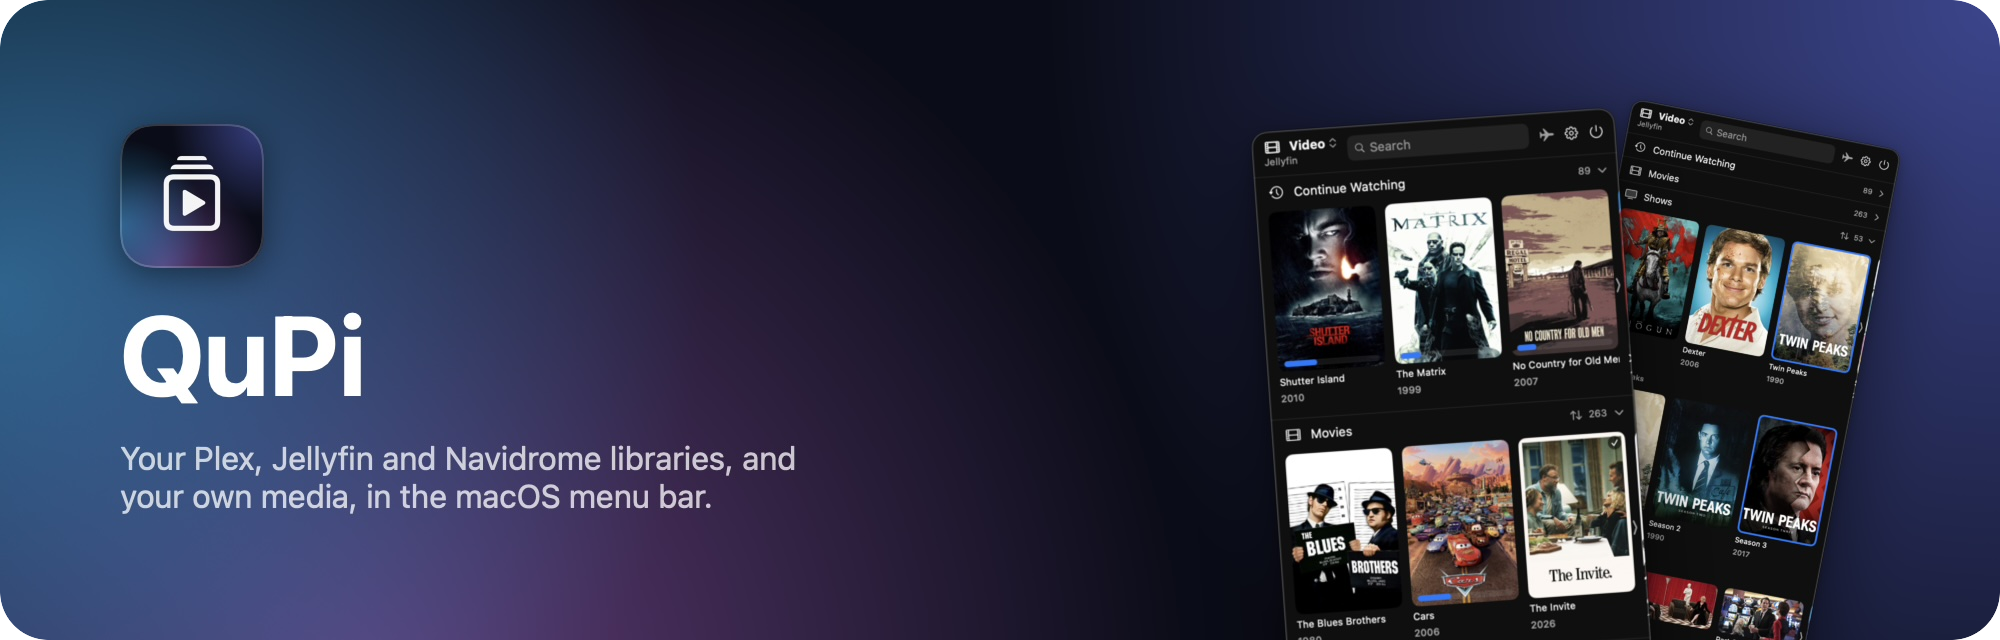
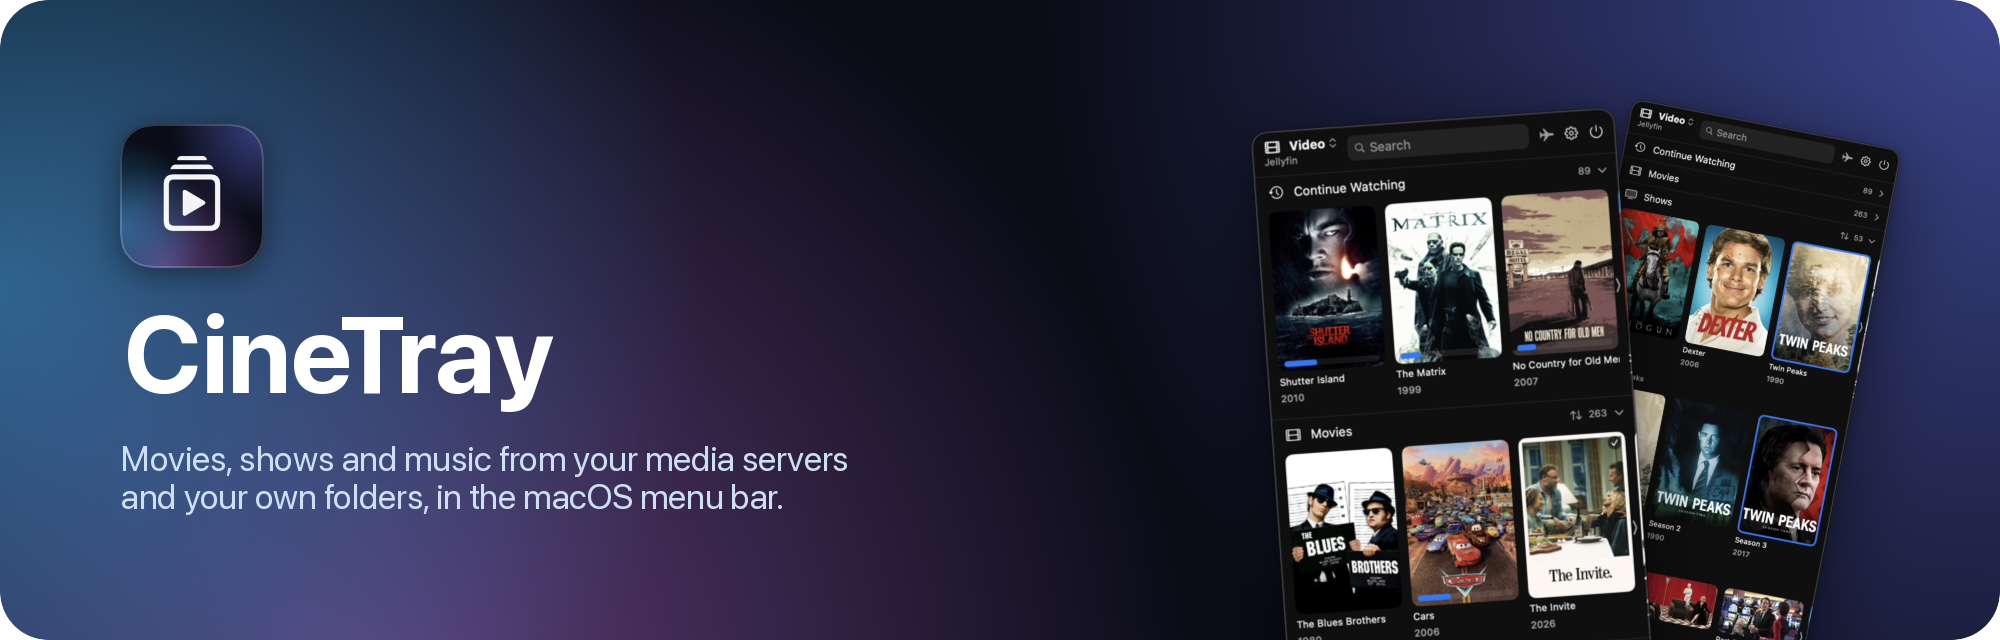
Rename the app to CineTray
The new name is not tied to one server type. Identifiers, the Keychain service, URL schemes and the download index use the new name too, and the banner tagline no longer lists specific servers.

Changed region(s): [[0.062, 0.6875, 0.434, 0.8125], [0.062, 0.4688, 0.279, 0.6562]]

diff --git a/CineTray/AppState.swift b/CineTray/AppState.swift
@@ -65,7 +65,7 @@ final class AppState {
         if inlinePlaylist != nil {
             playInlineNeighbor(offset)
         } else {
-            let name = offset > 0 ? "QP.MediaKeyNext" : "QP.MediaKeyPrevious"
+            let name = offset > 0 ? "CineTray.MediaKeyNext" : "CineTray.MediaKeyPrevious"
             NotificationCenter.default.post(name: NSNotification.Name(name), object: nil)
         }
     }
@@ -492,7 +492,7 @@ final class AppState {
     /// if a server failed.
     private var serverContinueFetchedAt: Date?
 
-    /// The servers' Continue Watching lists merged with QuPi's progress
+    /// The servers' Continue Watching lists merged with CineTray's progress
     /// store, most recently played first. A server item in the local store
     /// that its server no longer lists (finished or removed elsewhere) is
     /// dropped, unless it was played after the list was fetched. Items the
@@ -929,13 +929,13 @@ final class AppState {
         }
     }
 
-    /// The app chosen in Settings > Playback for video, or nil for QuPi's own player.
+    /// The app chosen in Settings > Playback for video, or nil for CineTray's own player.
     var externalVideoPlayer: URL? {
         UserDefaults.standard.string(forKey: SettingsKeys.videoPlayerApp).flatMap { $0.isEmpty ? nil : URL(filePath: $0) }
     }
 
     /// Hands the item's stream to another app. That app starts from the
-    /// beginning and QuPi can't follow it, so there is no resume, progress,
+    /// beginning and CineTray can't follow it, so there is no resume, progress,
     /// scrobbling or auto-continue.
     func play(_ item: MediaItem, in app: URL) {
         Task {
@@ -956,7 +956,7 @@ final class AppState {
     /// playlist rather than that URL in their recent items. Only the latest
     /// playlist is kept.
     private static func playlist(for item: MediaItem, streaming url: URL) throws -> URL {
-        let folder = URL.temporaryDirectory.appending(path: "QuPi Playback")
+        let folder = URL.temporaryDirectory.appending(path: "CineTray Playback")
         if FileManager.default.fileExists(atPath: folder.path) {
             try FileManager.default.removeItem(at: folder)
         }
@@ -995,7 +995,7 @@ final class AppState {
 
     /// Returns all playable (non-expandable) descendants of a container, each paired
     /// with its ancestor chain (outermost container first). Used by DownloadManager
-    /// to build hierarchical file paths that mirror the Plex/QP library hierarchy.
+    /// to build hierarchical file paths that mirror the Plex/CineTray library hierarchy.
     func downloadLeaves(of item: MediaItem, ancestors: [MediaItem] = []) async -> [(item: MediaItem, ancestors: [MediaItem])] {
         guard item.kind.isExpandable else { return [(item, ancestors)] }
         guard let provider = provider(for: item) else { return [] }
@@ -1277,7 +1277,7 @@ final class AppState {
     private var endObservationTask: Task<Void, Never>?
     /// Notification posted by the SwiftVLC event watcher when playback ends
     /// naturally; PlayerView.watchForPlaybackEnd listens for it.
-    static let vlcPlaybackEndedNotification = NSNotification.Name("QP.VLCPlaybackEnded")
+    static let vlcPlaybackEndedNotification = NSNotification.Name("CineTray.VLCPlaybackEnded")
 
     /// True when either engine is active and ready for transport controls.
     var hasActivePlayer: Bool { player != nil || vlcBridge != nil }
@@ -1286,7 +1286,7 @@ final class AppState {
     /// resume point.
     var startOverItemID: String?
 
-    /// Where to start `item`: the more recent of QuPi's saved position and
+    /// Where to start `item`: the more recent of CineTray's saved position and
     /// the server's resume point (which may come from another device).
     private func resumePosition(for item: MediaItem) -> Double? {
         let local = PlaybackProgressStore.entry(forItemID: item.id)

diff --git a/CineTray/AccountsSettingsView.swift b/CineTray/AccountsSettingsView.swift
@@ -104,7 +104,7 @@ struct AccountsSettingsView: View {
         .confirmationDialog("Sign out of Plex?", isPresented: $showingPlexSignOut) {
             Button("Sign Out", role: .destructive) { signOutOfPlex() }
         } message: {
-            Text("Your Plex servers will be removed from QuPi. You can sign in again at any time.")
+            Text("Your Plex servers will be removed from CineTray. You can sign in again at any time.")
         }
     }
 
@@ -681,7 +681,7 @@ struct AccountsSettingsView: View {
         traktSignInTask = Task {
             defer { traktSignInTask = nil }
             do {
-                let callbackURL = try await webAuth(url: TraktClient.authorizeURL, callbackScheme: "qupi")
+                let callbackURL = try await webAuth(url: TraktClient.authorizeURL, callbackScheme: "cinetray")
                 guard let code = URLComponents(url: callbackURL, resolvingAgainstBaseURL: false)?
                     .queryItems?.first(where: { $0.name == "code" })?.value else {
                     traktStatus = "Sign-in failed: no authorization code in callback."
@@ -732,7 +732,7 @@ struct AccountsSettingsView: View {
                 let token = try await LastFMClient.requestToken()
                 let callbackURL = try await webAuth(
                     url: LastFMClient.authorizeURL(token: token),
-                    callbackScheme: "qupi"
+                    callbackScheme: "cinetray"
                 )
                 // Last.fm echoes the token in the callback; prefer the returned
                 // value but fall back to the original if absent.

diff --git a/CineTray/GeneralSettingsView.swift b/CineTray/GeneralSettingsView.swift
@@ -21,8 +21,8 @@ struct GeneralSettingsView: View {
                 SectionInfoHeader(
                     title: "General",
                     info: requiresApproval
-                        ? "QuPi is registered but needs approval in System Settings › General › Login Items before it can launch at startup."
-                        : "Launch QuPi automatically when you log in."
+                        ? "CineTray is registered but needs approval in System Settings › General › Login Items before it can launch at startup."
+                        : "Launch CineTray automatically when you log in."
                 )
             }
 
@@ -45,8 +45,8 @@ struct GeneralSettingsView: View {
                 SectionInfoHeader(
                     title: "Access",
                     info: networkMonitor.status == .granted
-                        ? "QuPi has local network access and can discover servers on your network. Media keys let you play/pause and skip tracks globally."
-                        : "Grant QuPi access to find and connect to Plex and Jellyfin servers on your local network."
+                        ? "CineTray has local network access and can discover servers on your network. Media keys let you play/pause and skip tracks globally."
+                        : "Grant CineTray access to find and connect to Plex and Jellyfin servers on your local network."
                 )
             }
         }

diff --git a/CineTray/MediaModels.swift b/CineTray/MediaModels.swift
@@ -141,7 +141,7 @@ enum MediaSource: String, Codable, Hashable {
     }
 
     /// Whether the server keeps its own watched state and Continue Watching
-    /// list, which then wins over QuPi's local progress.
+    /// list, which then wins over CineTray's local progress.
     var keepsWatchState: Bool {
         self == .plex || self == .jellyfin
     }
@@ -414,7 +414,7 @@ struct MediaItem: Identifiable, Hashable, Codable {
     /// Where the server says playback of a partly watched item stopped.
     var resumePositionSeconds: Double?
     /// When the server says this was last played; orders Continue Watching
-    /// and decides whether the server's resume point is newer than QuPi's.
+    /// and decides whether the server's resume point is newer than CineTray's.
     var lastViewedAt: Date?
 
     /// Release year when the subtitle carries one (used for Trakt matching).
@@ -627,7 +627,7 @@ nonisolated enum SettingsKeys {
     static let downloadsEnabled = "downloadsEnabled"
     static let playerUISize = "playerUISize"
     static let playerMode = "playerMode"
-    /// Path of the app that plays video; empty for QuPi's own player.
+    /// Path of the app that plays video; empty for CineTray's own player.
     static let videoPlayerApp = "videoPlayerApp"
     static let richMedia = "richMedia"
     static let movieSort = "movieSort"

diff --git a/CineTray/PlaybackSettingsView.swift b/CineTray/PlaybackSettingsView.swift
@@ -17,17 +17,17 @@ struct PlaybackSettingsView: View {
             Section {
                 LabeledContent("Play Video In") {
                     HStack {
-                        Text(videoPlayerApp.isEmpty ? "QuPi" : FileManager.default.displayName(atPath: videoPlayerApp))
+                        Text(videoPlayerApp.isEmpty ? "CineTray" : FileManager.default.displayName(atPath: videoPlayerApp))
                             .foregroundStyle(.secondary)
                             .lineLimit(1)
                         Button("Choose…", action: chooseVideoPlayer)
                         if !videoPlayerApp.isEmpty {
-                            Button("Use QuPi") { videoPlayerApp = "" }
+                            Button("Use CineTray") { videoPlayerApp = "" }
                         }
                     }
                 }
             } header: {
-                SectionInfoHeader(title: "Video", info: "Another app plays from the beginning, and QuPi can't resume, save progress, scrobble or play the next item for it. Music always plays in QuPi.")
+                SectionInfoHeader(title: "Video", info: "Another app plays from the beginning, and CineTray can't resume, save progress, scrobble or play the next item for it. Music always plays in CineTray.")
             }
 
             Section {

diff --git a/CineTray/ContentView.swift b/CineTray/ContentView.swift
@@ -1,7 +1,7 @@
 import SwiftUI
 import AppKit
 
-/// QuPi: Menu bar media player.
+/// CineTray: Menu bar media player.
 /// Dropdown shows poster carousels; selecting items opens a player window.
 @main struct MyApp: App {
     @State private var appState = AppState()
@@ -47,7 +47,7 @@ import AppKit
     }
 }
 
-/// QuPi is a menu bar app (.accessory), so its windows get no app menus
+/// CineTray is a menu bar app (.accessory), so its windows get no app menus
 /// and none of their shortcuts (Full Screen, Hide, Close). While a player
 /// or the Settings window is open it becomes a regular app with a Dock icon,
 /// and goes back to menu bar only when the last one closes.
@@ -58,7 +58,7 @@ enum AppWindowActivation {
         openWindows += 1
         guard openWindows == 1 else { return }
         NSApplication.shared.setActivationPolicy(.regular)
-        // The policy change deactivates QuPi until it is processed, so
+        // The policy change deactivates CineTray until it is processed, so
         // activating right away leaves the window inactive (gray switches,
         // no keyboard focus). Activate on the next run loop turn instead.
         Task { NSApplication.shared.activate() }

diff --git a/CineTray/MenuBarContentView.swift b/CineTray/MenuBarContentView.swift
@@ -134,7 +134,7 @@ struct MenuBarContentView: View {
                 paneSwitch
             } else {
                 VStack(alignment: .leading, spacing: 1) {
-                    Label("QuPi", systemImage: "play.square.stack")
+                    Label("CineTray", systemImage: "play.square.stack")
                         .font(.headline)
                     Text(appState.sourcesDescription)
                         .font(.caption)
@@ -157,12 +157,12 @@ struct MenuBarContentView: View {
             .buttonStyle(.plain)
             .labelStyle(.iconOnly)
             .help("Settings")
-            Button("Quit QuPi", systemImage: "power") {
+            Button("Quit CineTray", systemImage: "power") {
                 NSApplication.shared.terminate(nil)
             }
             .buttonStyle(.plain)
             .labelStyle(.iconOnly)
-            .help("Quit QuPi")
+            .help("Quit CineTray")
         }
         .padding(.horizontal, 12)
         .padding(.vertical, 8)

diff --git a/Package.swift b/Package.swift
@@ -1,19 +1,19 @@
 // swift-tools-version: 6.3
-// Builds QuPi without Xcode (Command Line Tools only). Run ./build.sh to
-// produce dist/QuPi.app. The Xcode project remains the alternative.
+// Builds CineTray without Xcode (Command Line Tools only). Run ./build.sh to
+// produce dist/CineTray.app. The Xcode project remains the alternative.
 import PackageDescription
 
 let package = Package(
-    name: "QuPi",
+    name: "CineTray",
     platforms: [.macOS(.v26)],
     dependencies: [
         .package(url: "https://github.com/harflabs/SwiftVLC.git", from: "1.0.0"),
     ],
     targets: [
         .executableTarget(
-            name: "QuPi",
+            name: "CineTray",
             dependencies: [.product(name: "SwiftVLC", package: "SwiftVLC")],
-            path: "QuPi",
+            path: "CineTray",
             exclude: ["Info.plist", "AppIcon.icns"],
             // Mirrors the Xcode project's build settings.
             swiftSettings: [

diff --git a/CineTray/DownloadManager.swift b/CineTray/DownloadManager.swift
@@ -12,7 +12,7 @@ struct DownloadIndexEntry: Codable {
 /// Downloads media to the per-type folders chosen in Settings → Data,
 /// enforcing the per-type storage allocation. Folder access persists across
 /// launches via security-scoped bookmarks. A JSON index sidecar
-/// (`.qp-downloads.json`) tracks what has been downloaded so the app can
+/// (`.cinetray-downloads.json`) tracks what has been downloaded so the app can
 /// serve it as a local library and prefer local files for playback.
 @Observable
 final class DownloadManager {
@@ -296,7 +296,7 @@ final class DownloadManager {
     }
 
     private static func indexURL(in folder: URL) -> URL {
-        folder.appending(path: ".qp-downloads.json")
+        folder.appending(path: ".cinetray-downloads.json")
     }
 
     /// Parsed indexes by folder path. The app is the only writer of these

diff --git a/CineTray/PlayerView.swift b/CineTray/PlayerView.swift
@@ -114,10 +114,10 @@ struct PlayerView: View {
             appState.stopPlayback(if: item)
             AppWindowActivation.windowClosed()
         }
-        .onReceive(NotificationCenter.default.publisher(for: NSNotification.Name("QP.MediaKeyNext"))) { _ in
+        .onReceive(NotificationCenter.default.publisher(for: NSNotification.Name("CineTray.MediaKeyNext"))) { _ in
             if appState.currentItem?.id == item.id { playNext() }
         }
-        .onReceive(NotificationCenter.default.publisher(for: NSNotification.Name("QP.MediaKeyPrevious"))) { _ in
+        .onReceive(NotificationCenter.default.publisher(for: NSNotification.Name("CineTray.MediaKeyPrevious"))) { _ in
             if appState.currentItem?.id == item.id {
                 appState.seek(to: 0) // Basic previous logic for windowed mode
             }

diff --git a/CineTray/JellyfinAPI.swift b/CineTray/JellyfinAPI.swift
@@ -25,12 +25,12 @@ struct JellyfinLibrary: Identifiable, Hashable, Codable {
 /// Minimal Jellyfin server client, mirroring PlexClient's role. Authenticates
 /// with username/password to obtain an access token and user ID.
 struct JellyfinClient {
-    static let deviceID = "QuPiMenuBar"
+    static let deviceID = "CineTrayMenuBar"
 
     let config: JellyfinConfiguration
 
     private static func authorizationHeader(token: String?) -> String {
-        var header = #"MediaBrowser Client="QuPi", Device="Mac", DeviceId="\#(deviceID)", Version="1.0""#
+        var header = #"MediaBrowser Client="CineTray", Device="Mac", DeviceId="\#(deviceID)", Version="1.0""#
         if let token {
             header += #", Token="\#(token)""#
         }

diff --git a/CineTray/ArtworkCache.swift b/CineTray/ArtworkCache.swift
@@ -11,7 +11,7 @@ nonisolated enum ArtworkCache {
     static let persistentSession: URLSession = {
         let configuration = URLSessionConfiguration.default
         // Not sandboxed, so cachesDirectory is the shared ~/Library/Caches.
-        let directory = URL.cachesDirectory.appending(path: "QuPi/Artwork")
+        let directory = URL.cachesDirectory.appending(path: "CineTray/Artwork")
         configuration.urlCache = URLCache(
             memoryCapacity: 64 * 1024 * 1024,
             diskCapacity: 512 * 1024 * 1024,
